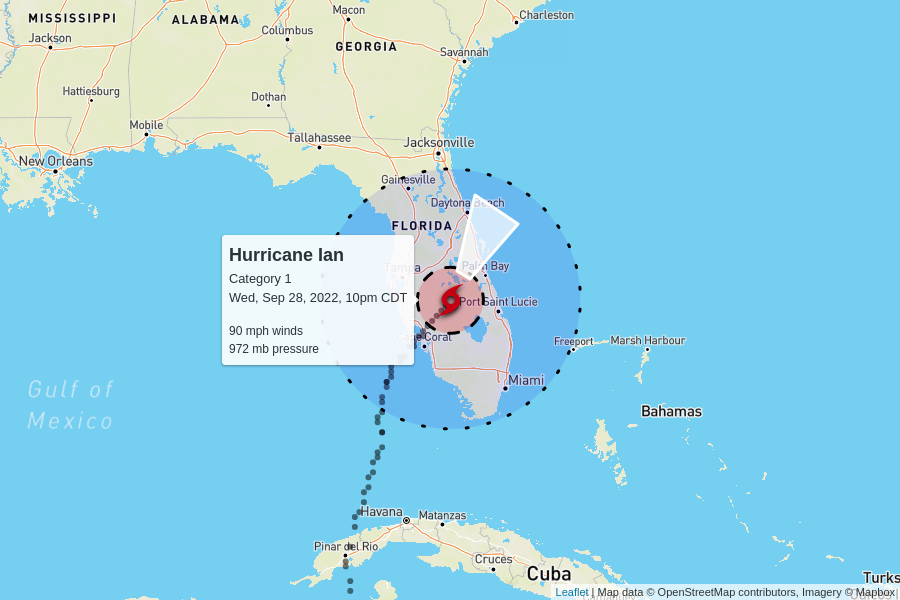
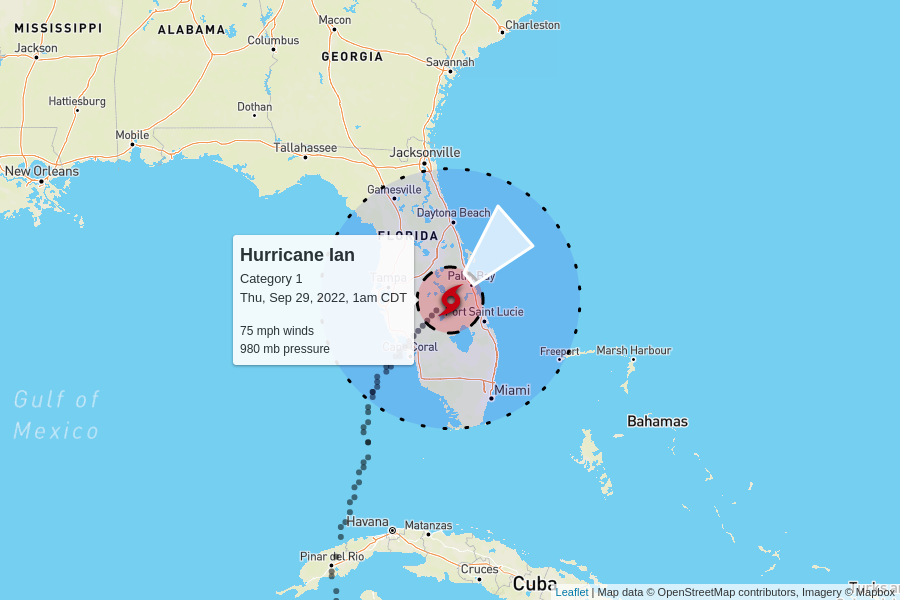
automatic update

diff --git a/docs/index.html b/docs/index.html
@@ -100,7 +100,7 @@
         <td colspan="6" class="storm category-1" >
           <h2>
             Hurricane Ian - Category 1
-            <p class="updated">last updated <span data-time>2022-09-29T03:00:00.000Z</span></p>
+            <p class="updated">last updated <span data-time>2022-09-29T06:00:00.000Z</span></p>
           </h2>
         </td>
       </tr>
@@ -115,12 +115,12 @@
       </tr>
       <tr>
         <td class="spacer"></td>
-        <td>90 mph</td>
-        <td>972 mb</td>
+        <td>75 mph</td>
+        <td>980 mb</td>
         <td>
-          8 mph to the north-northeast
+          9 mph to the northeast
           <br/>
-          <span style="display: inline-block; font-size: 1.5em; transform: rotate(30deg);">↑</span>
+          <span style="display: inline-block; font-size: 1.5em; transform: rotate(45deg);">↑</span>
         </td>
         <td><a href="https://raw.githubusercontent.com/mgwalker/atlantic-hurricanes/main/data/csv/AL092022.csv">AL092022.csv</a></td>
         <td><a href="https://www.nhc.noaa.gov/archive/2022/IAN.shtml?">NHC advisories</a></td>
